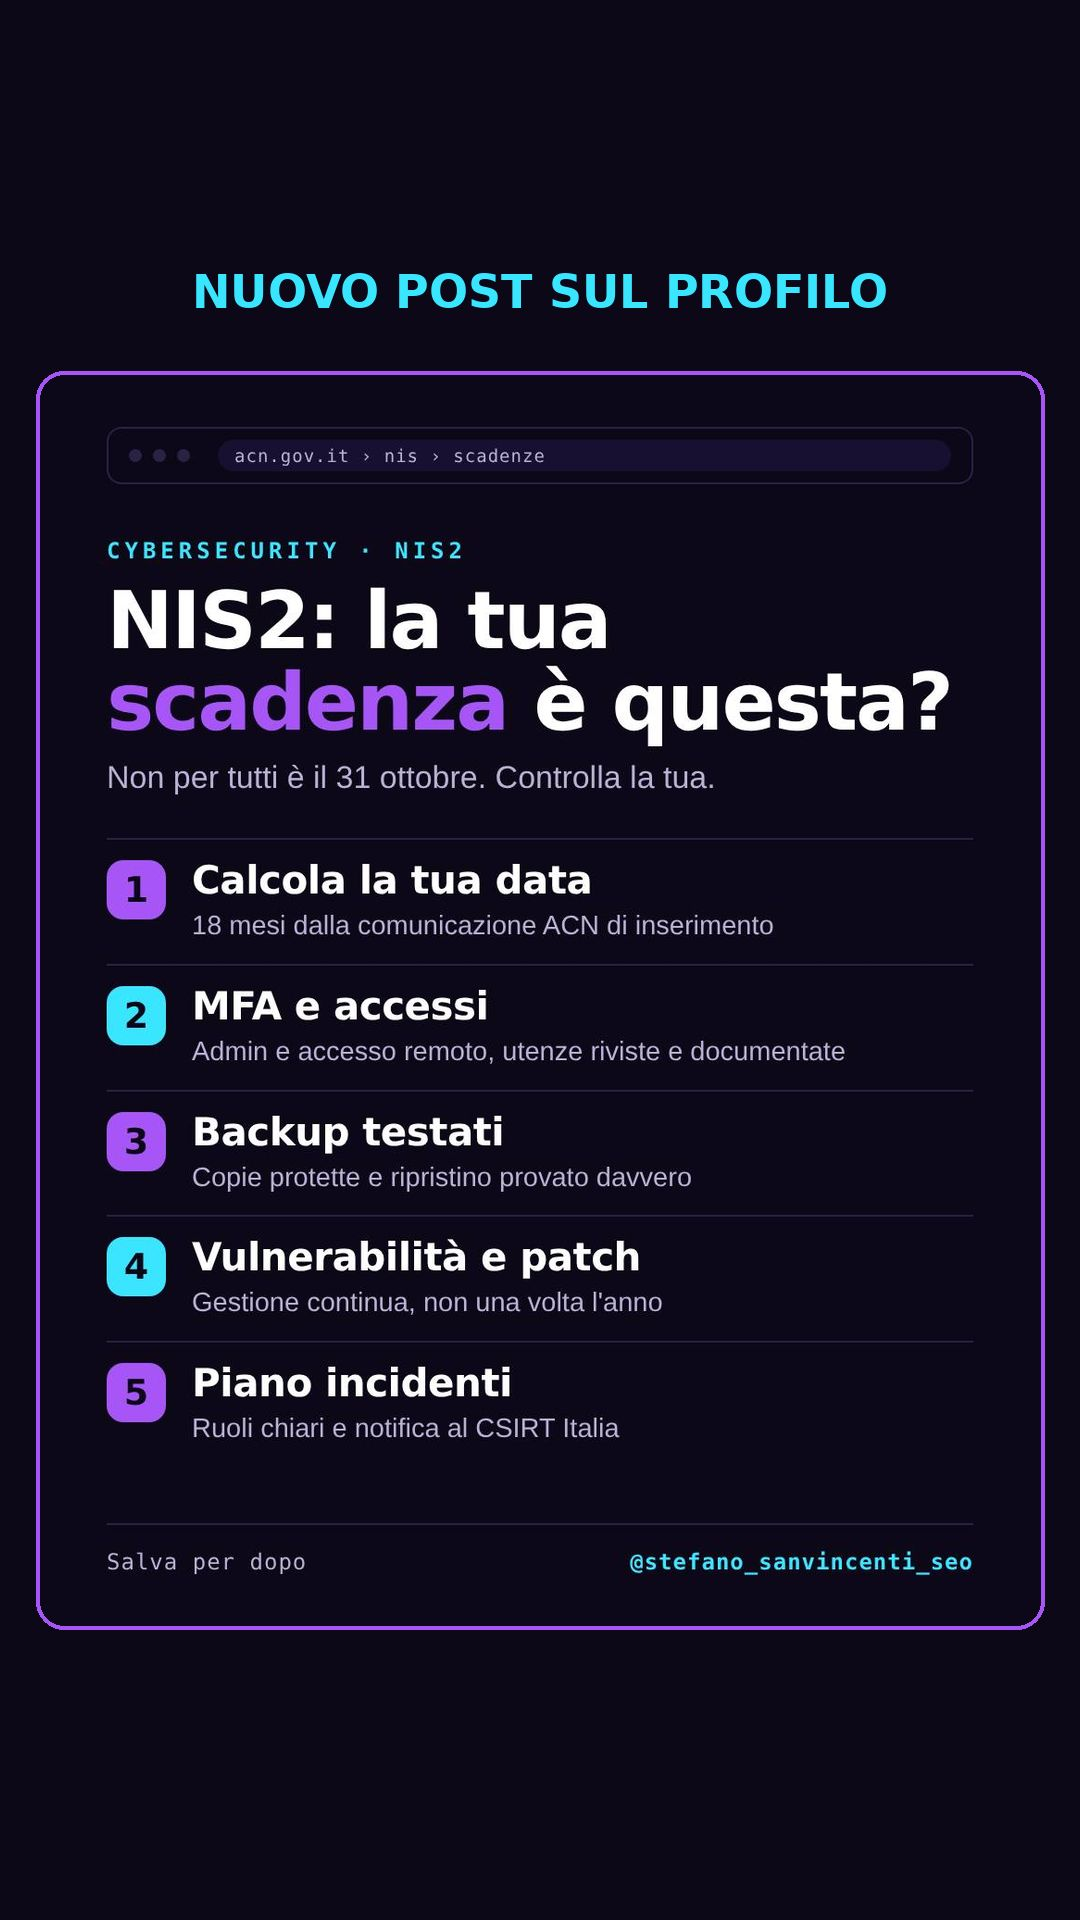
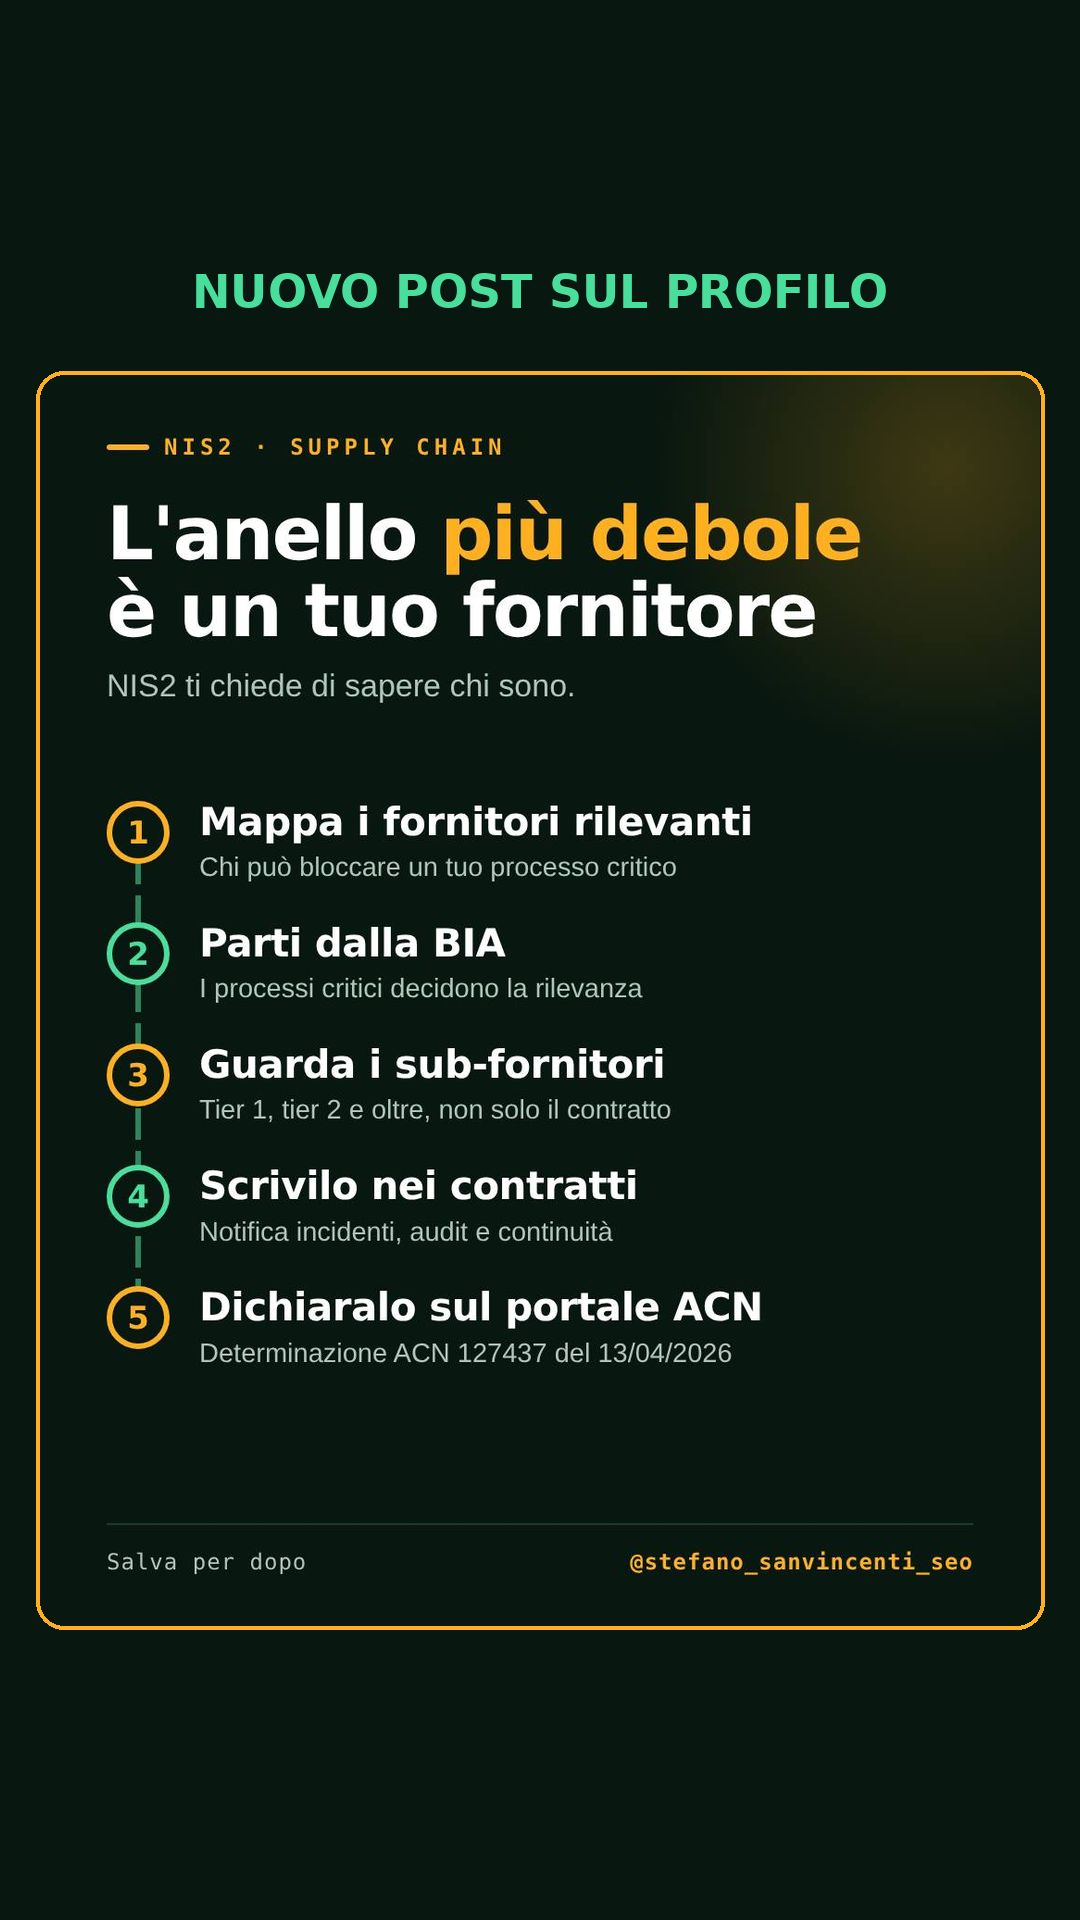
Post e story NIS2 supply chain, nuova grafica
Claude-Session: https://claude.ai/code/session_01Myu2YHu8sNxAgWea1jjDQa

Changed region(s): [[0.0306, 0.125, 0.9778, 0.8438], [0.5806, 0.8125, 0.8861, 0.8438], [0.9167, 0.8438, 0.9472, 0.875]]

diff --git a/template/variants/2026-10-11-supply-chain.html b/template/variants/2026-10-11-supply-chain.html
@@ -1,0 +1,42 @@
+<!DOCTYPE html>
+<html><head><meta charset="utf-8">
+<style>
+  *{ margin:0; padding:0; box-sizing:border-box; }
+  html,body{ width:1080px; height:1350px; overflow:hidden; font-family:'Liberation Sans', sans-serif; }
+  :root{ --bg:#08170F; --ink:#FFFFFF; --dim:#AFC7B8; --amber:#FFB020; --teal:#4ADE9C; --line:#1F3B2D; }
+  .post{ position:relative; width:1080px; height:1350px; background:var(--bg); color:var(--ink); padding:0 72px; overflow:hidden; }
+  .glow{ position:absolute; right:-220px; top:-220px; width:640px; height:640px; border-radius:50%; background:radial-gradient(circle, rgba(255,176,32,.22), rgba(255,176,32,0) 70%); }
+  .tag{ position:absolute; top:64px; left:72px; display:flex; align-items:center; gap:16px; font-family:'DejaVu Sans Mono',monospace; font-size:24px; letter-spacing:5px; color:var(--amber); font-weight:bold; text-transform:uppercase; }
+  .tag i{ display:block; width:46px; height:6px; background:var(--amber); border-radius:3px; }
+  .title{ position:absolute; top:130px; left:72px; right:72px; }
+  .title h1{ font-family:'DejaVu Sans','Liberation Sans',sans-serif; font-weight:bold; font-size:80px; line-height:1.04; letter-spacing:-2px; }
+  .title h1 span{ color:var(--amber); }
+  .title p{ margin-top:20px; font-size:34px; color:var(--dim); }
+  .chain{ position:absolute; top:440px; left:72px; right:72px; }
+  .chain:before{ content:''; position:absolute; left:31px; top:30px; bottom:60px; width:6px; background:repeating-linear-gradient(to bottom,var(--teal) 0 34px,transparent 34px 46px); border-radius:3px; opacity:.55; }
+  .node{ position:relative; display:flex; gap:32px; align-items:flex-start; padding:20px 0; }
+  .dot{ flex:none; position:relative; z-index:1; width:68px; height:68px; border-radius:50%; background:var(--bg); border:6px solid var(--teal); color:var(--teal); font-family:'DejaVu Sans',sans-serif; font-weight:bold; font-size:34px; display:flex; align-items:center; justify-content:center; }
+  .node:nth-child(odd) .dot{ border-color:var(--amber); color:var(--amber); }
+  .node h2{ font-family:'DejaVu Sans','Liberation Sans',sans-serif; font-weight:bold; font-size:42px; line-height:1.08; letter-spacing:-0.5px; }
+  .node p{ margin-top:8px; font-size:29px; line-height:1.3; color:var(--dim); }
+  .foot{ position:absolute; left:72px; right:72px; bottom:54px; display:flex; justify-content:space-between; align-items:center; border-top:2px solid var(--line); padding-top:26px; font-family:'DejaVu Sans Mono',monospace; font-size:24px; color:var(--dim); letter-spacing:1px; }
+  .foot b{ color:var(--amber); }
+</style></head>
+<body>
+<div class="post">
+  <div class="glow"></div>
+  <div class="tag"><i></i>NIS2 · Supply chain</div>
+  <div class="title">
+    <h1>L'anello <span>più debole</span><br>è un tuo fornitore</h1>
+    <p>NIS2 ti chiede di sapere chi sono.</p>
+  </div>
+  <div class="chain">
+    <div class="node"><div class="dot">1</div><div><h2>Mappa i fornitori rilevanti</h2><p>Chi può bloccare un tuo processo critico</p></div></div>
+    <div class="node"><div class="dot">2</div><div><h2>Parti dalla BIA</h2><p>I processi critici decidono la rilevanza</p></div></div>
+    <div class="node"><div class="dot">3</div><div><h2>Guarda i sub-fornitori</h2><p>Tier 1, tier 2 e oltre, non solo il contratto</p></div></div>
+    <div class="node"><div class="dot">4</div><div><h2>Scrivilo nei contratti</h2><p>Notifica incidenti, audit e continuità</p></div></div>
+    <div class="node"><div class="dot">5</div><div><h2>Dichiaralo sul portale ACN</h2><p>Determinazione ACN 127437 del 13/04/2026</p></div></div>
+  </div>
+  <div class="foot"><span>Salva per dopo</span><b>@stefano_sanvincenti_seo</b></div>
+</div>
+</body></html>

diff --git a/template/make_story.py b/template/make_story.py
@@ -13,11 +13,11 @@ CIANO = (57, 229, 255)  # #39E5FF
 FONT = "/usr/share/fonts/truetype/dejavu/DejaVuSans-Bold.ttf"
 
 
-def main(path: str) -> None:
+def main(path: str, bg=BG, border=VIOLA, label_col=CIANO) -> None:
     src_path = Path(path)
     src = Image.open(src_path).convert("RGB")
     W, H = 1080, 1920
-    canvas = Image.new("RGB", (W, H), BG)
+    canvas = Image.new("RGB", (W, H), bg)
     d = ImageDraw.Draw(canvas)
 
     tw = 1000
@@ -25,19 +25,28 @@ def main(path: str) -> None:
     post = src.resize((tw, th), Image.LANCZOS)
     x, y = (W - tw) // 2, (H - th) // 2 + 40
 
-    d.rounded_rectangle([x - 4, y - 4, x + tw + 4, y + th + 4], radius=28, outline=VIOLA, width=4)
+    d.rounded_rectangle([x - 4, y - 4, x + tw + 4, y + th + 4], radius=28, outline=border, width=4)
     mask = Image.new("L", (tw, th), 0)
     ImageDraw.Draw(mask).rounded_rectangle([0, 0, tw, th], radius=24, fill=255)
     canvas.paste(post, (x, y), mask)
 
     font = ImageFont.truetype(FONT, 46)
     label = "NUOVO POST SUL PROFILO"
-    d.text(((W - d.textlength(label, font=font)) / 2, y - 110), label, font=font, fill=CIANO)
+    d.text(((W - d.textlength(label, font=font)) / 2, y - 110), label, font=font, fill=label_col)
 
     out = src_path.with_name(src_path.stem + "-story.jpg")
     canvas.save(out, quality=80)
     print(out)
 
 
+def hexc(h):
+    h = h.lstrip("#")
+    return tuple(int(h[i:i + 2], 16) for i in (0, 2, 4))
+
+
 if __name__ == "__main__":
-    main(sys.argv[1])
+    # Uso opzionale: make_story.py post.jpg [bg_hex border_hex label_hex]
+    if len(sys.argv) == 5:
+        main(sys.argv[1], hexc(sys.argv[2]), hexc(sys.argv[3]), hexc(sys.argv[4]))
+    else:
+        main(sys.argv[1])

diff --git a/template/README.md b/template/README.md
@@ -3,3 +3,7 @@ Render con Playwright/Chromium, viewport 1080x1350, scale 1, poi JPEG qualità ~
 Palette: bg #0C0818, viola #A855F7, ciano #39E5FF. Barra "browser" in alto, kicker, titolo (parola chiave in viola),
 sottotitolo, lista numerata (max 5 voci, quadratini alternati viola/ciano), footer "Salva per dopo" + @stefano_sanvincenti_seo.
 Verificare sempre che nessun testo sia tagliato dal footer.
+
+REGOLA: colori e layout cambiano per ogni post in base all'argomento (non riusare sempre viola/ciano). Varianti in template/variants/.
+make_story.py accetta colori opzionali: python3 template/make_story.py posts/X.jpg BG_HEX BORDO_HEX SCRITTA_HEX
+Contenuti: mai parlare di iscrizione nel 2026 con scadenza nel 2027 (NIS2).
